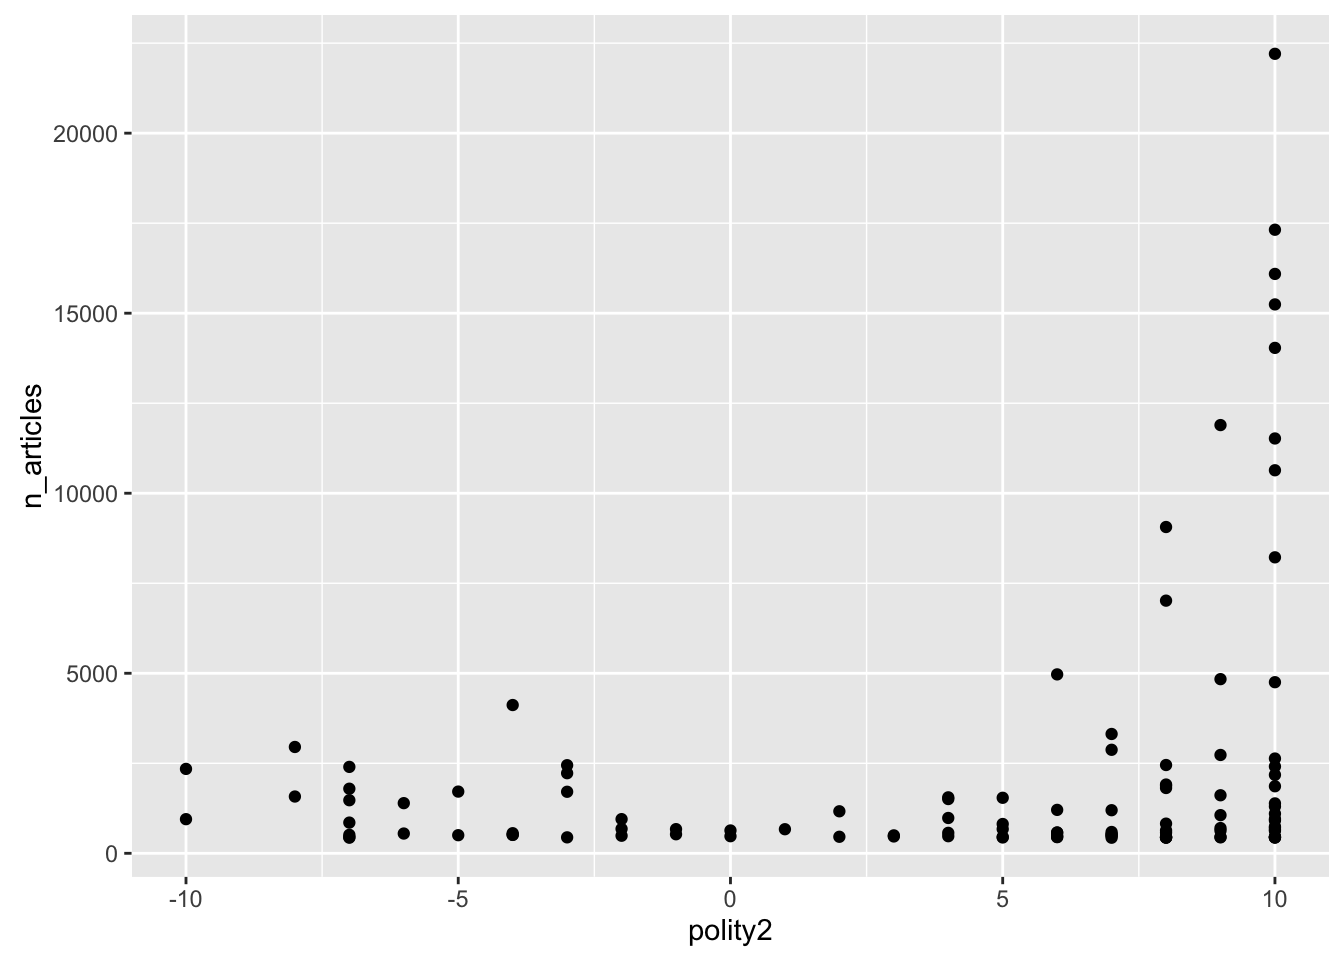
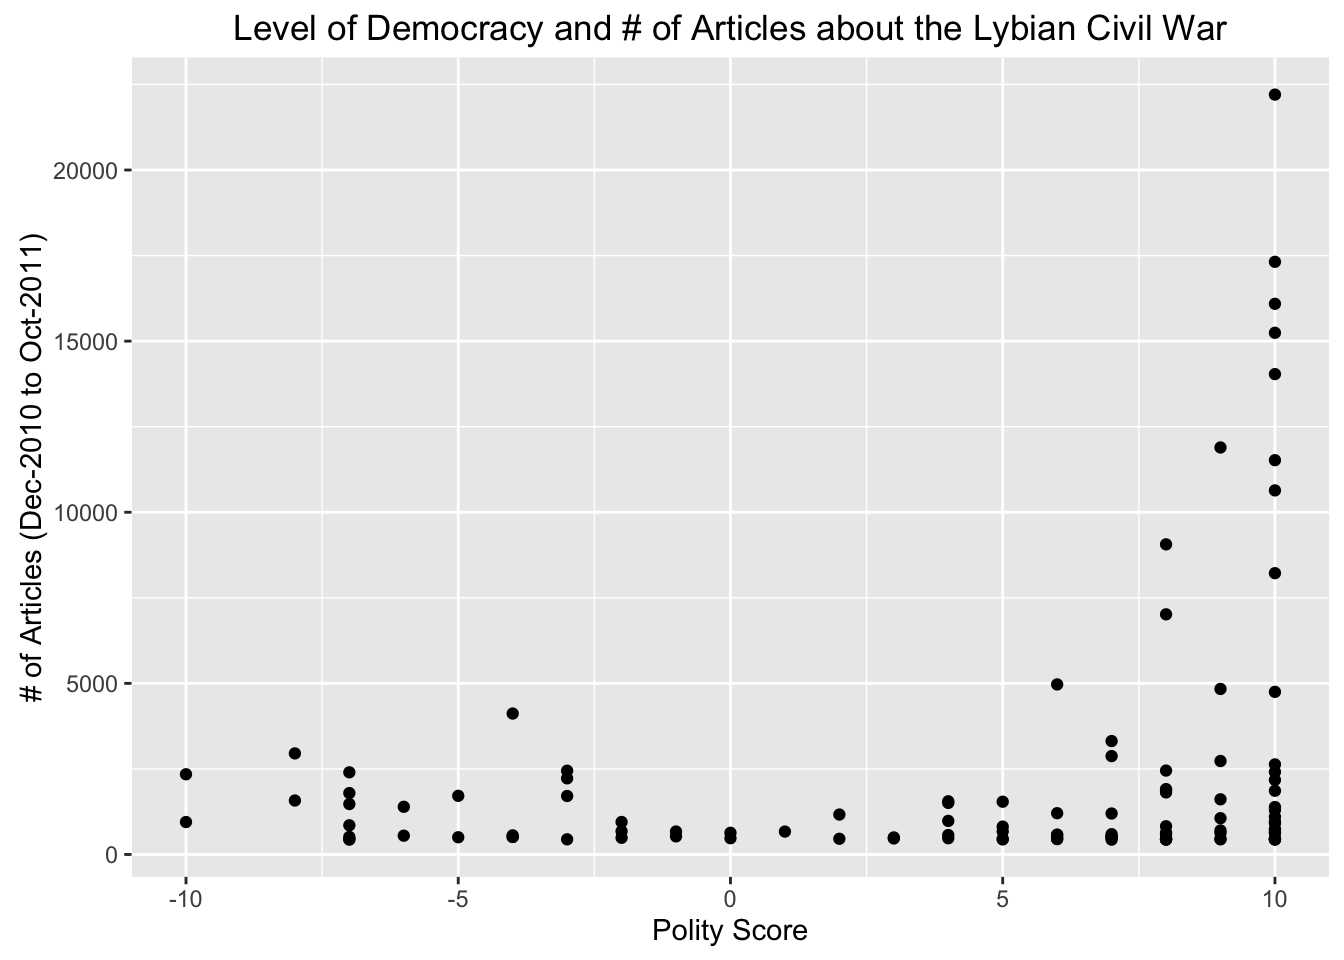
lab2 update

diff --git a/lessons/ggplot-1.html b/lessons/ggplot-1.html
@@ -12,7 +12,7 @@
 
 <meta name="date" content="2016-01-15" />
 
-<title>Subsetting and Plotting Data in R</title>
+<title>Plotting Data in R</title>
 
 <script src="libs/jquery-1.11.0/jquery.min.js"></script>
 <meta name="viewport" content="width=device-width, initial-scale=1" />
@@ -68,7 +68,7 @@ img {
 </p>
 
 <div id="header">
-<h1 class="title">Subsetting and Plotting Data in R</h1>
+<h1 class="title">Plotting Data in R</h1>
 <h4 class="author"><em>Andreu Casas</em></h4>
 <h4 class="date"><em>January 15, 2016</em></h4>
 </div>
@@ -84,7 +84,7 @@ img {
 <div id="learning-objectives" class="section level2">
 <h2>Learning Objectives</h2>
 <ol style="list-style-type: decimal">
-<li>Improve subsetting skills</li>
+<li>Plot data using `ggplot2</li>
 </ol>
 </div>
 <div id="initial-set-up" class="section level2">
@@ -115,51 +115,87 @@ img {
 <p>Let’s start by plotting a scatterplot showing the relationship between <strong>level of democracy</strong> (variable <code>polity2</code>) in a country and the <strong>number of articles</strong> published by newspapers in that country related to the Lybian civil war (variable <code>n_articles</code>)</p>
 <p>Load the <code>ggplot2</code> package</p>
 <pre class="r"><code>library(ggplot2)
-country &lt;- read.csv(&#39;data/country.csv&#39;)</code></pre>
-<p><strong>Challenge:</strong> What is the code that produces this graph?</p>
+country &lt;- read.csv(&quot;data/country.csv&quot;)</code></pre>
+<div class="panel panel-primary">
+<div class="panel-heading">
+<h3 class="panel-title">
+Challenge
+</h3>
+</div>
+<div class="panel-body">
+<p>What is the code that produces this graph?</p>
 <p><img src="ggplot-1_files/figure-html/unnamed-chunk-2-1.png" title="" alt="" width="672" /></p>
+</div>
+</div>
 <p>First we need to use the <code>ggplot()</code> function to assign the variables we want to plot</p>
 <pre class="r"><code>ggplot(country, aes(x = polity2, y = n_articles)) </code></pre>
 <p>Assigning values to the <code>ggplot()</code> function is not enough and that is why we get either an error or an empty graph if we run the previous command. We also need to specify which type of graph (geometric object) we want to plot. In this case we want to use a scatterplot, so the full command would be:</p>
 <pre class="r"><code>ggplot(country, aes(x = polity2, y = n_articles)) +
   geom_point()</code></pre>
-<pre><code>## Warning: Removed 2 rows containing missing values (geom_point).</code></pre>
 <p><img src="ggplot-1_files/figure-html/unnamed-chunk-4-1.png" title="" alt="" width="672" /></p>
 <p>When producing the plot, <code>R</code> is telling us that it“s not plotting two observations because they have missing values. For the purpose of this lab, and to avoid getting the same error repeatedly, let’s get rid of those observations using the <code>na.omit()</code> command</p>
 <pre class="r"><code>country &lt;- na.omit(country)</code></pre>
 <p>Good practice would be to store the <code>ggplot()</code> function into an object. This will make future code shorter and easier to read.</p>
 <pre class="r"><code>p &lt;- ggplot(country, aes(x = polity2, y = n_articles))
 p + geom_point()</code></pre>
+<p>Also, let’s add a Title and more meaningful axes labels.</p>
+<pre class="r"><code>p &lt;- ggplot(country, aes(x = polity2, y = n_articles))
+p &lt;- p + geom_point() +
+    labs(x = &quot;Polity Score&quot;, y = &quot;# of Articles (Dec-2010 to Oct-2011)&quot;) +
+    ggtitle(&quot;Level of Democracy and # of Articles about the Lybian Civil War&quot;)</code></pre>
 <p>On the one hand, this scatterplot supports Baum and Zhukov’s (2015) argument: as the level of democracy of a country increases, the number of articles covering the Lybian civil war also increases. However, the data also shows a pattern that they ignore in the paper: in countries with very low levels of democracy (<code>polity2</code> &lt; -1) the coverage of the Lybian civil war was larger than in countries with medium level of democracy (-1 &lt; <code>polity2</code> &lt; 6). Literature on regime types and transition theorize similar U-shaped relationships: e.g. Acemoglu and Robinson (2006) when discussing the relationship between Inequality and Democratization.</p>
-<p><strong>Challenge:</strong></p>
+<div class="panel panel-primary">
+<div class="panel-heading">
+<h3 class="panel-title">
+Challenge
+</h3>
+</div>
+<div class="panel-body">
 <ul>
 <li>How can we fit a line describing a linear relationship and a line describing a more U-shaped relationship between these two variables?</li>
 </ul>
-<pre class="r"><code>p + geom_point() + geom_smooth(se = FALSE) + geom_smooth(method = &#39;lm&#39;, se = FALSE)</code></pre>
-<p><img src="ggplot-1_files/figure-html/unnamed-chunk-7-1.png" title="" alt="" width="672" /></p>
+</div>
+</div>
+<pre class="r"><code>p + geom_smooth(se = FALSE) + 
+    geom_smooth(method = &#39;lm&#39;, se = FALSE)</code></pre>
+<p><img src="ggplot-1_files/figure-html/unnamed-chunk-8-1.png" title="" alt="" width="672" /></p>
 <p>Since the colors of the two lines are the same, the graph is a little bit confusing. Let’s change their color.</p>
 <pre class="r"><code>p + geom_point() + geom_smooth(se = FALSE, col = &quot;red&quot;) + 
                    geom_smooth(method =&quot;lm&quot;, se = FALSE, col = &quot;blue&quot;)</code></pre>
-<p><img src="ggplot-1_files/figure-html/unnamed-chunk-8-1.png" title="" alt="" width="672" /></p>
+<p><img src="ggplot-1_files/figure-html/unnamed-chunk-9-1.png" title="" alt="" width="672" /></p>
 <p>In their study, instead of using a discrete representation of a country’s <strong>level of democracy</strong> (<code>polity2</code>), they use a dichotomous expression: whether the country is democratic or not (<code>democracy</code>)</p>
 <p>Let’s try to produce a barplot similar to the one they have in page 390, where they show the number of articles related to the Lybian civil crisis by regime type (democracy/non-democracy) and region (East Europe, Western Europe, Latin America, Africa, Asia, Middle East, and United States and Canada)</p>
 <pre class="r"><code>country$democracy &lt;- as.factor(country$democracy)
 p2 &lt;- ggplot(country, aes(x = region, y = n_articles, fill = democracy))
-p2 + geom_bar(stat = &quot;summary&quot;, position = &quot;dodge&quot;, fun.y=&quot;mean&quot;)</code></pre>
-<p><img src="ggplot-1_files/figure-html/unnamed-chunk-9-1.png" title="" alt="" width="672" /></p>
-<p><strong>Challenge:</strong></p>
+p2 + geom_bar(stat = &quot;summary&quot;, position = &quot;dodge&quot;, fun.y=&quot;mean&quot;) +
+  labs(x = &quot;Region&quot;, y = &quot;# of Articles&quot;) +
+  ggtitle(&quot;Average # of articles by Region&quot;)</code></pre>
+<p><img src="ggplot-1_files/figure-html/unnamed-chunk-10-1.png" title="" alt="" width="672" /></p>
+<div class="panel panel-primary">
+<div class="panel-heading">
+<h3 class="panel-title">
+Challenge
+</h3>
+</div>
+<div class="panel-body">
 <ul>
 <li>How does our barplot differ from Baum and Zhukov’s (2015:390)?</li>
 <li>Which barplot do you think summarizes the data better?</li>
 </ul>
+</div>
+</div>
 <p>Now showing the same information using boxplots</p>
-<pre class="r"><code>p2 + geom_boxplot()</code></pre>
-<p><img src="ggplot-1_files/figure-html/unnamed-chunk-10-1.png" title="" alt="" width="672" /></p>
+<pre class="r"><code>p2 + geom_boxplot() +
+  labs(x = &quot;Region&quot;, y = &quot;# of Articles&quot;) +
+  ggtitle(&quot;Average # of articles by Region&quot;)</code></pre>
+<p><img src="ggplot-1_files/figure-html/unnamed-chunk-11-1.png" title="" alt="" width="672" /></p>
 <p>Another boxplot excluding the regions North America (<code>usac</code>) and Western Europe (<code>wEurope</code>)</p>
 <pre class="r"><code>country2 &lt;- country[!(country$region %in% c(&quot;usac&quot;, &quot;wEurope&quot;)), ]
 p3 &lt;- ggplot(country2, aes(x = region, y = n_articles, fill = democracy))
-p3 + geom_boxplot()</code></pre>
-<p><img src="ggplot-1_files/figure-html/unnamed-chunk-11-1.png" title="" alt="" width="672" /></p>
+p3 + geom_boxplot() +
+  labs(x = &quot;Region&quot;, y = &quot;# of Articles&quot;) +
+  ggtitle(&quot;Average # of articles by Region&quot;)</code></pre>
+<p><img src="ggplot-1_files/figure-html/unnamed-chunk-12-1.png" title="" alt="" width="672" /></p>
 </div>
 
 <hr>

diff --git a/lessons/subsetting.html b/lessons/subsetting.html
@@ -12,7 +12,7 @@
 
 <meta name="date" content="2016-01-15" />
 
-<title>Subsetting and Plotting Data in R</title>
+<title>Subsetting Data in R</title>
 
 <script src="libs/jquery-1.11.0/jquery.min.js"></script>
 <meta name="viewport" content="width=device-width, initial-scale=1" />
@@ -68,7 +68,7 @@ img {
 </p>
 
 <div id="header">
-<h1 class="title">Subsetting and Plotting Data in R</h1>
+<h1 class="title">Subsetting Data in R</h1>
 <h4 class="author"><em>Andreu Casas</em></h4>
 <h4 class="date"><em>January 15, 2016</em></h4>
 </div>
@@ -78,7 +78,7 @@ img {
 <h3>Learning Objectives</h3>
 <ol style="list-style-type: decimal">
 <li>Improve subsetting skills</li>
-<li>Plot data using <code>ggplot2</code></li>
+<li>Plot data using <code>ggplot2</code> (ggplot-1 lesson)</li>
 </ol>
 <hr />
 <center>
@@ -99,7 +99,13 @@ Initial Set up
 <ul>
 <li>Download the dataset in this <a href="https://github.com/UW-POLS501/pols_501_wi16/blob/master/lessons/data/country.csv">link</a> and store it in the <strong>data</strong> subdirectory</li>
 </ul>
-<p><strong>Challenge:</strong></p>
+<div class="panel panel-primary">
+<div class="panel-heading">
+<h3 class="panel-title">
+Challenge
+</h3>
+</div>
+<div class="panel-body">
 <ul>
 <li><p>Go to the article link, skim it (read the abstract and the data section), and briefly tell me:</p>
 <ul>
@@ -108,6 +114,8 @@ Initial Set up
 <li>What they do with the data (how they use it to test their hypotheses)</li>
 </ul></li>
 </ul>
+</div>
+</div>
 <hr />
 <center>
 <h3>
@@ -117,7 +125,6 @@ Improve subsetting skills
 <div id="selecting-variables-of-our-dataset" class="section level4">
 <h4>Selecting variables of our dataset</h4>
 <p>Start by reading the dataset (a CSV file) into <code>R</code>.</p>
-<p><strong>Challenge:</strong></p>
 <ul>
 <li>How do we read CSV files into R?</li>
 </ul>
@@ -131,7 +138,14 @@ Improve subsetting skills
 <li><code>tail()</code></li>
 <li><code>summary()</code></li>
 </ul>
-<p><strong>Challenge,</strong> how would we select:</p>
+<div class="panel panel-primary">
+<div class="panel-heading">
+<h3 class="panel-title">
+Challenge
+</h3>
+</div>
+<div class="panel-body">
+<p>How would we select:</p>
 <ul>
 <li>first 10 rows</li>
 <li>last 10 rows</li>
@@ -140,6 +154,8 @@ Improve subsetting skills
 <li>a subset of the data with only democratic countries</li>
 <li>a subset of the data with only non-democratic countries</li>
 </ul>
+</div>
+</div>
 <pre class="r"><code># First 10 rows
 country[1:10, ]
 head(country,n = 10)
